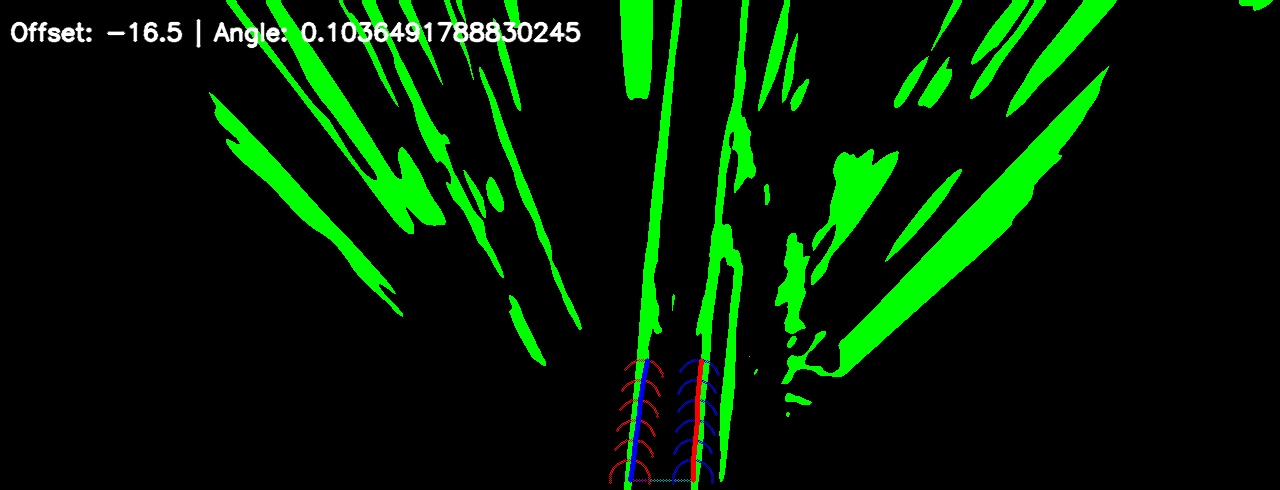
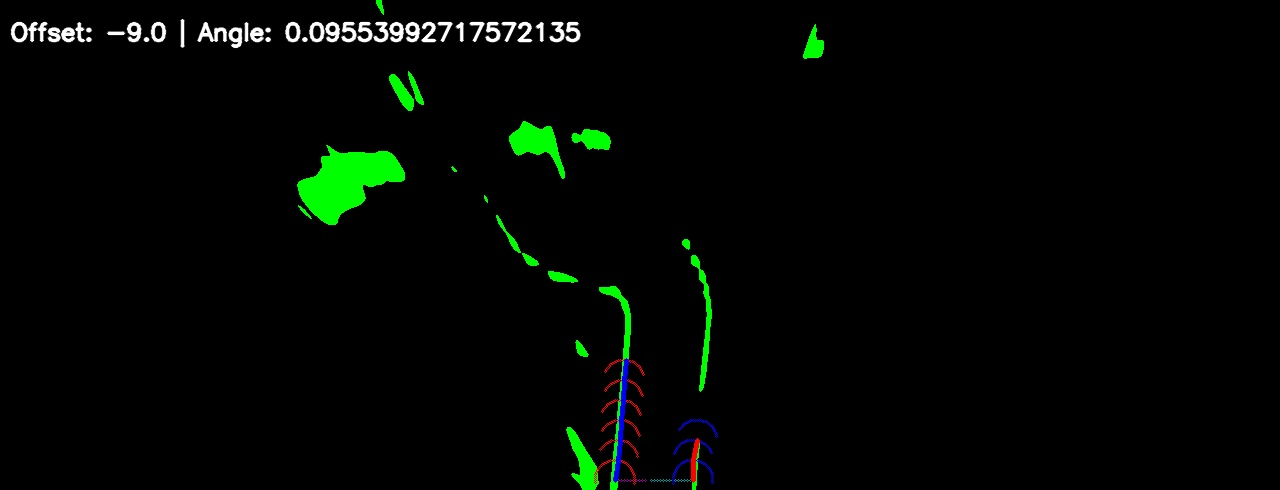
Params for expose

Changed region(s): [[0.0938, 0.0, 0.875, 1.0], [0.9688, 0.0, 1.0, 0.0306]]

diff --git a/src/line_follower/line_follower/line_follower.py b/src/line_follower/line_follower/line_follower.py
@@ -40,8 +40,8 @@ HEADING_ANGLE_MULTIPLIER = -3
 HEADING_ANGLE_MULTIPLIER_SQUARE = -5
 
 # Parameters speed
-MIN_THRUST = 0.75  #0.7  # Pursuit: 0.75 #Timed trial: 0.7 / 0.5 / 0.9 / Competition: 1.0
-MAX_THRUST = 1.2 #1.4  # Pursuit: 1.2  #Timed trial: 1.4 / 1.0 / 1.4 / Competition : 1.6
+MIN_THRUST = 0.5  #0.7  # Pursuit: 0.75 #Timed trial: 0.7 / 0.5 / 0.9 / Competition: 1.0
+MAX_THRUST = 1.0 #1.4  # Pursuit: 1.2  #Timed trial: 1.4 / 1.0 / 1.4 / Competition : 1.6
 MAX_OVERTAKING_THRUST = 4.5
 CONSTANT_THRUST = float(0.6)  # [m/second] (min. is 0.4 m/s)
 CONSTANT_THRUST_DRAG = 1.7
@@ -52,9 +52,9 @@ SIGMOID_YMAX_OFFSET = 0.45
 USS_PUNISHMENT_MULTIPLIER = 0.05
 
 # Parameters ultra-sonic sensors
-USS_MAX_DRAW_FRONT_LEFT = 15
-USS_MAX_DRAW_FRONT_MIDDLE = 20 
-USS_MAX_DRAW_FRONT_RIGHT = 15
+USS_MAX_DRAW_FRONT_LEFT = 40
+USS_MAX_DRAW_FRONT_MIDDLE = 40 
+USS_MAX_DRAW_FRONT_RIGHT = 40
 
 # Parameters signs
 THRESHOLD_SIGN_HEIGHT_MIN = 300
@@ -145,7 +145,10 @@ class LineFollower(Node):
     
     ### TODO: Remove This is only used for the expose!
     def traffic_light_callback(self, msg):
-        self.red = msg.traffic_light 
+        if msg.traffic_light == True:
+            self.red = msg.traffic_light
+        else:
+            self.red == False
 
     def uss_callback(self, msg):
         considered_distances = [100, 100, 100]
@@ -161,12 +164,12 @@ class LineFollower(Node):
         self.min_front_distance = min(considered_distances)
        
         if self.min_front_distance < 100:
-            self.get_logger().info('Min front distance:' + str(self.min_front_distance))
+            #self.get_logger().info('Min front distance:' + str(self.min_front_distance))
 
             self.time_since_opponent_seen = time.time()
         #self.get_logger().info('Min front distance:' + str(self.min_front_distance))
         # self.get_logger().info('Front left:' + str(self.uss_data_front[0]))
-        # self.get_logger().info('Front middle:' + str(self.uss_data_front[1]))
+        self.get_logger().info('Front middle:' + str(self.uss_data_front[1]))
         # self.get_logger().info('Front right:' + str(self.uss_data_front[2]))
 
 
@@ -346,7 +349,7 @@ class LineFollower(Node):
         ## Only proceed if emergency stop is not triggered
 
         ### TODO: Remove the self.read == False
-        if self.emergency_stop == False and self.off_track_mode == False and self.red == False:
+        if self.emergency_stop == False and self.off_track_mode == False:
 
             if DRIVE_MODE in [0,1,2]:
                 # Filter signal
@@ -364,7 +367,7 @@ class LineFollower(Node):
 
                 # Calculate thrust
                 self.thrust = self.speed_controller(self.heading_angle)
-                self.get_logger().info('Thrust is  L' + str(self.thrust))
+
                 # Update previous offset and heading if offset is NaN
                 if not math.isnan(self.center_offset):
                     self.previous_center_offset = self.center_offset

diff --git a/src/lane_recognition/lane_recognition/lane_recognition.py b/src/lane_recognition/lane_recognition/lane_recognition.py
@@ -45,7 +45,7 @@ height_multiplier = 3.5
 skew_level = 0.887 # 0-1
 
 ## filter params
-thresh = 94 #94 # 0-255 (lower means higher sensitivity) 
+thresh = 120 #94 # 0-255 (lower means higher sensitivity) 
 gaussian = 13 # must be odd number
 adaptive_block_size_factor = 11 # must be odd number
 adaptive_const = 2
